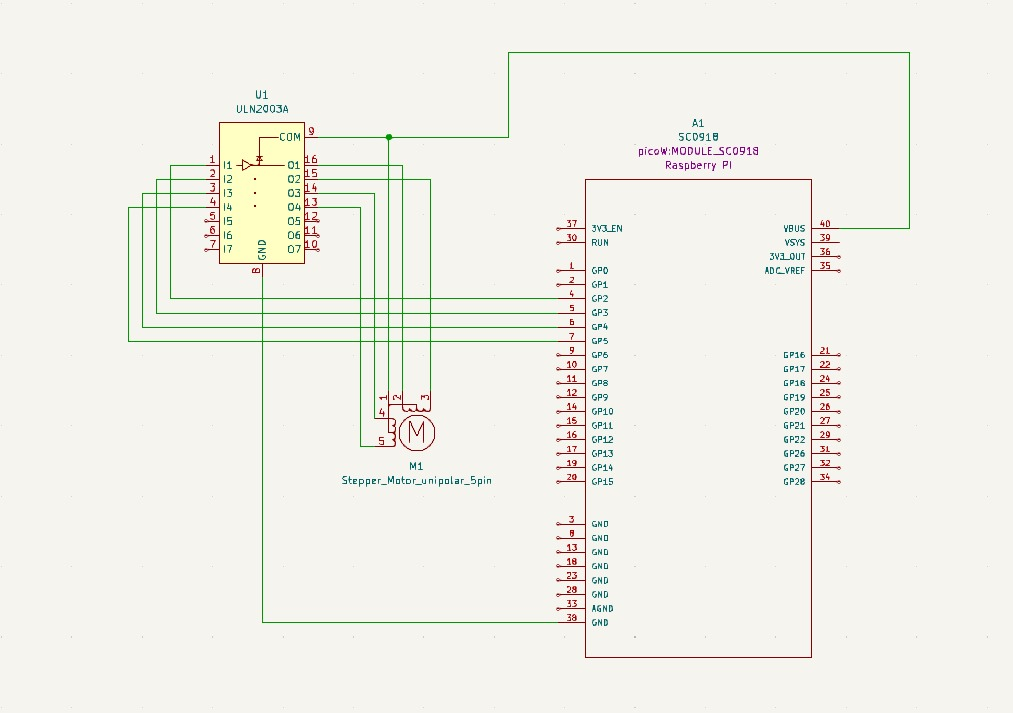
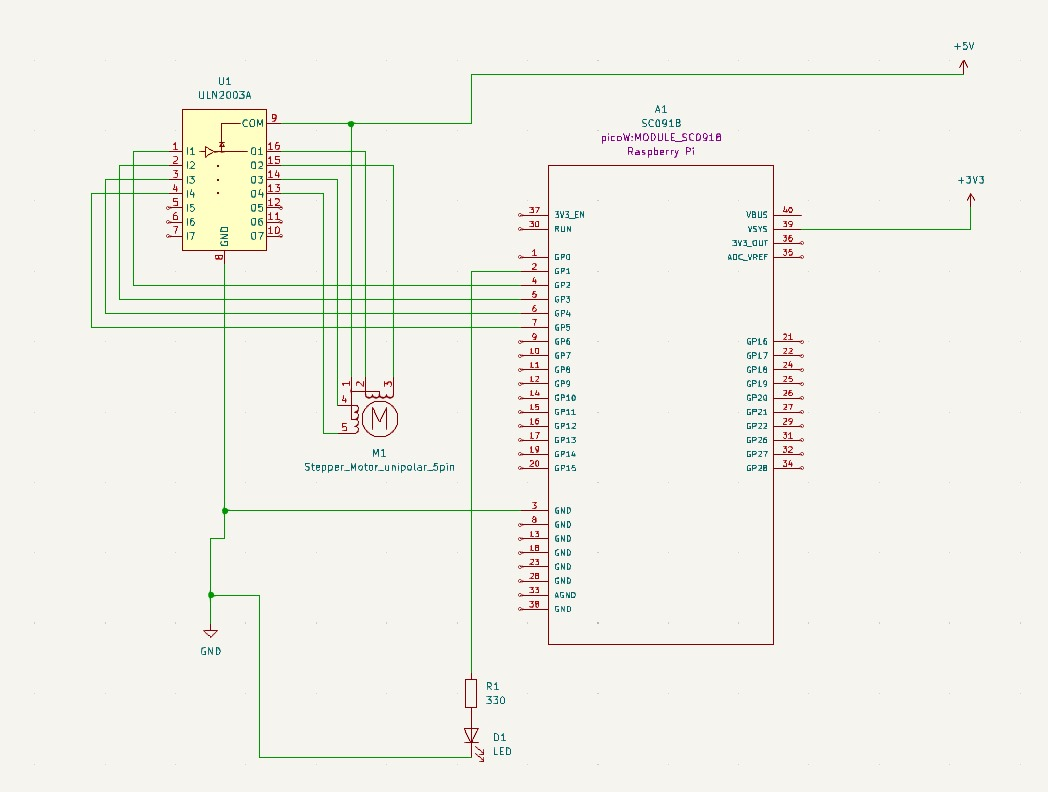
Project update lita naomi fixed (#497)
* update

kicad, pictures, and hardware description added

* image type corrected

* changed links

links for motor and module changed

* added the changes

kicad, descriptions, pictures updated

diff --git a/docs/project/2024/naomi.lita/index.md b/docs/project/2024/naomi.lita/index.md
@@ -1,6 +1,6 @@
 # Automated Window Blinds
 
-Fully automated blinds that roll up and down at a set time.
+Fully automated blinds that roll up and down through wifi.
 
 :::info 
 
@@ -11,11 +11,12 @@ Fully automated blinds that roll up and down at a set time.
 
 ## Description
 
-My project aims to automate a window blinds roller. The roller will be controlled through a web page on which I can set a time (like an alarm) to roll up/down the blinds or with a button to roll up/down directly. Also, my project will be connected to Rebeca's project. Her pico wand will be able to control the up/down movement of my window blinds with a hand gesture. 
+My project aims to automate a window blinds roller. A stepper motor raises and lowers the blinds. A motor driver that is attached to the pico is coupled with the stepper motor. Rebeca Chiorean's project uses another Pico to operate the roller via wifi. Together, our two projects show how a household item can be remotely operated while keeping individuals with disabilities in mind.
 
 ## Motivation
 
-I chose this project because it was a dream of mine to wake up with natural sunlight at sunrise, but also to sleep well in a dark room with the rollers closed.
+This project aims to show how a home appliance can be remotely operated using the raspberry pi picos and rust programming language. In the near future, I wish to automate all of my home's window blinds.
+
 
 ## Architecture 
 
@@ -30,14 +31,16 @@ I chose this project because it was a dream of mine to wake up with natural sunl
 I purchased the components for the project. I tried to see if the motor would rotate using thony and micropython, and happily, it worked.
 
 ### Week 7 - 19 May
-I set up the project in rust. I'm still fixing errors.
+I configured the project in rust. This week I fixed errors in the code.
 On the other hand, I started designing the toothed disks for the 3D printer.
 
 ### Week 20 - 26 May
+I 3D printed the necessary disks for the motor and assembled the scale model. Also, I fixed all the software bugs. Rebeca and I connected our picos through wifi. 
+
 
 ### Hardware
 
-The pico gets input either from a web app or another pico connected through wifi(Rebeca's project: pico wand) and sends a signal to the motor driver (ULN2003) which in turn starts the stepper motor (28BYJ-48) that rolls the blinds up or down.
+The pico gets a signal from another pico connected through wifi (Rebeca's project: Pico Wand). This signal is transmitted to the motor driver (ULN2003), which in turn activates the stepper motor (28BYJ-48) that rolls the blinds up or down. After the command to roll up or down is performed, an led will blink twice as a confirmation.
 
 ## Components
  - **28BYJ-48 stepper motor**: this motor is a unipolar stepper motor with 4 phases. It has the torque of about 0.34 kg per cm on its axis. This is enough to raise a lightweight model blind. 
@@ -55,7 +58,9 @@ For counterclockwise rotation, it is the same matrix, only reversed.
 
 ## Photos
 ![picture01](project_image01.jpg)
-![picture02](project_image02.jpg)
+![picture02](picos.jpg)
+![picture03](motor.jpg)
+![picture04](whole_project.jpg)
 
 ### Bill of Materials
 
@@ -72,11 +77,14 @@ The format is
 | Device | Usage | Price |
 |--------|--------|-------|
 | [Rapspberry Pi Pico WH](https://www.raspberrypi.com/documentation/microcontrollers/raspberry-pi-pico.html) | the microcontroller | [56,23 RON](https://ardushop.ro/ro/home/2819-raspberry-pi-pico-wh.html?search_query=Raspberry+Pi+Pico+WH%2C+Wireless+Headers&results=1031) |
-| Kit Breadboard | to place the components | [24,61 RON](https://ardushop.ro/ro/electronica/163-kit-breadboard830-65xfire-jumper-sursa-alimentare-335v.html?search_query=KIT+Breadboard830+++65xfire+jumper+++sursa+alimentare+3%2C3%2F5V&results=694) |
+| [Stepper Motor 28BYJ-48 5V and Driver ULN2003](https://www.hwlibre.com/en/28bj-48/)| the motor to rotate the blinds and the driver to connect it to the microcontroller | [16,97 RON](https://www.optimusdigital.ro/ro/motoare-motoare-pas-cu-pas/101-driver-uln2003-motor-pas-cu-pas-de-5-v-.html) |
+| Breadboard | to place the components | [24,61 RON](https://ardushop.ro/ro/electronica/163-kit-breadboard830-65xfire-jumper-sursa-alimentare-335v.html?search_query=KIT+Breadboard830+++65xfire+jumper+++sursa+alimentare+3%2C3%2F5V&results=694) |
+| Jumper wires | to conect the components | [24,61 RON](https://ardushop.ro/ro/electronica/163-kit-breadboard830-65xfire-jumper-sursa-alimentare-335v.html?search_query=KIT+Breadboard830+++65xfire+jumper+++sursa+alimentare+3%2C3%2F5V&results=694) |
+| Power source | to give the motor 5V and pico 3V3 | [24,61 RON](https://ardushop.ro/ro/electronica/163-kit-breadboard830-65xfire-jumper-sursa-alimentare-335v.html?search_query=KIT+Breadboard830+++65xfire+jumper+++sursa+alimentare+3%2C3%2F5V&results=694) |
 | Resistors | regulate the power supply | [12,29 RON](https://ardushop.ro/ro/electronica/212-set-rezistente-14w-600buc30-valori-10r-1m.html?search_query=SET+rezistori+&results=429) |
-| [Stepper Motor 28BYJ-48 5V](http://descargas.cetronic.es/28BYJ-48.pdf) and [Driver ULN2003](https://www.mouser.com/datasheet/2/115/ULN200xA-3216185.pdf)| the motor to rotate the blinds and the driver to connect it to the microcontroller | [16,97 RON](https://www.optimusdigital.ro/ro/motoare-motoare-pas-cu-pas/101-driver-uln2003-motor-pas-cu-pas-de-5-v-.html) |
+| Red LED | blink | [0,69 RON](https://www.optimusdigital.ro/ro/optoelectronice-led-uri/696-led-rou-de-3-mm-cu-lentile-difuze.html?search_query=led&results=819) |
 | 3D printed toothed disks | connect the motor to the blinds |
-| 3D printed case for device | hold all components together |
+| 9V adaptor | power supply |
 
 
 ## Software
@@ -86,7 +94,9 @@ I only included those specific for this project.
 | Library | Description | Usage |
 |---------|-------------|-------|
 | [uln2003](https://github.com/MnlPhlp/uln2003) | 28BYJ-48 stepper motor with ULN2003 driver | Used for controlling the motor with rust |
-| [neon](https://github.com/neon-bindings/neon) | Rust binding for Node.js | Used to connect the Rust code with the Node.js for the webpage |
+| [cyw43](https://github.com/embassy-rs/embassy/tree/main/cyw43) | Rust driver for the CYW43439 wifi chip | Used for the WiFi implementation|
+| [cyw43-pio](https://github.com/embassy-rs/embassy/tree/main/cyw43-pio) | Driver for the nonstandard half-duplex SPI used in the PicoW | Used for the WiFi implementation|
+
 
 ## Links
 
@@ -96,3 +106,4 @@ I only included those specific for this project.
 2. [Pico Project: Automated window blinds that open at sunrise and close at sunset](https://www.reddit.com/r/raspberrypipico/comments/wbdsz1/pico_project_automated_window_blinds_that_open_at/)
 3. [28BYJ-48 Stepper Motor with Raspberry PI Pico](https://www.youtube.com/watch?v=VM3S9CiyPzY&t=2s)
 4. [28BYJ-48 Stepper Motor Description](https://www.hwlibre.com/en/28bj-48/)
+5. [3D printed toothed disks](https://www.instructables.com/DIY-Motorized-WiFi-Roller-Blind-ESP8266-Blynk/)
